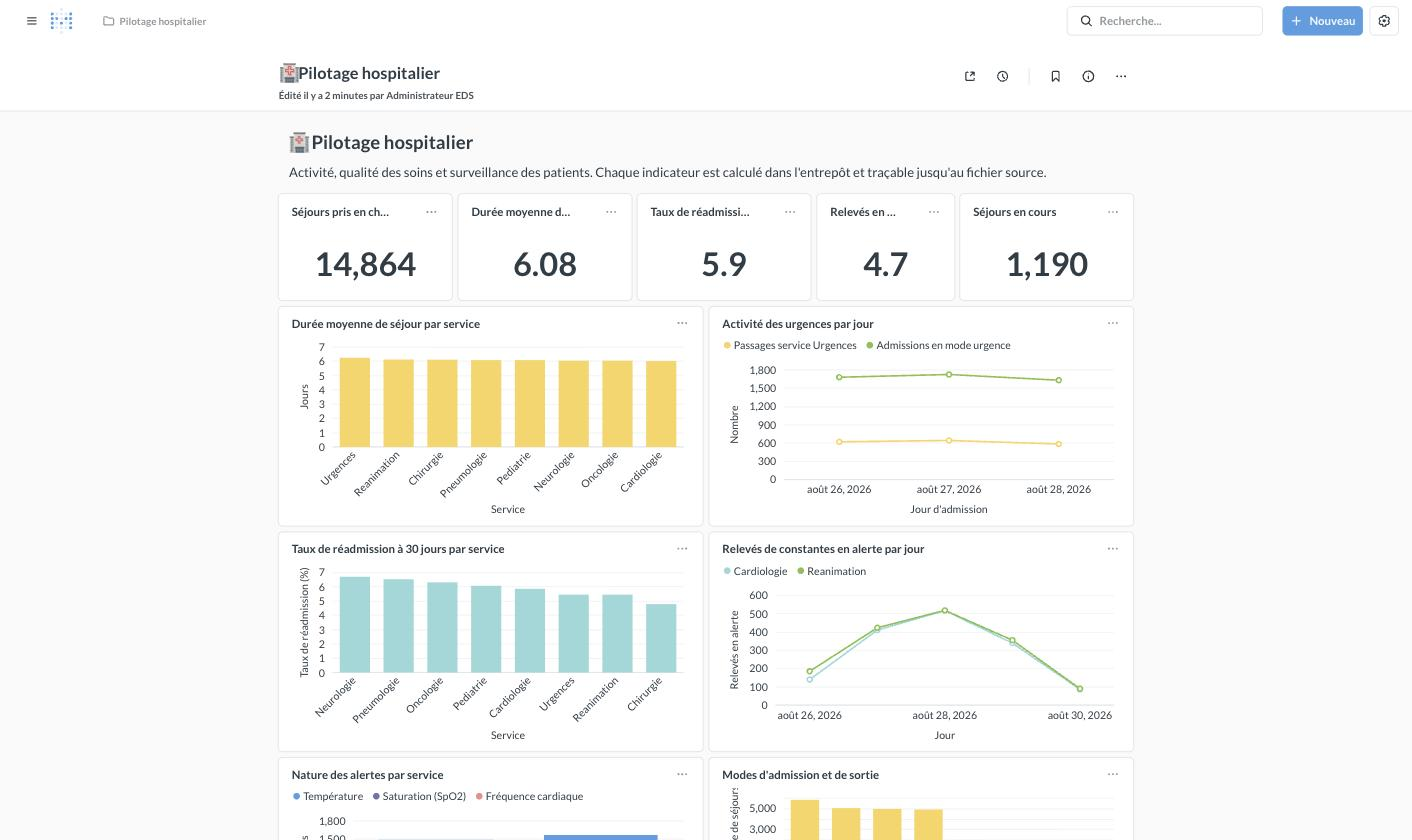
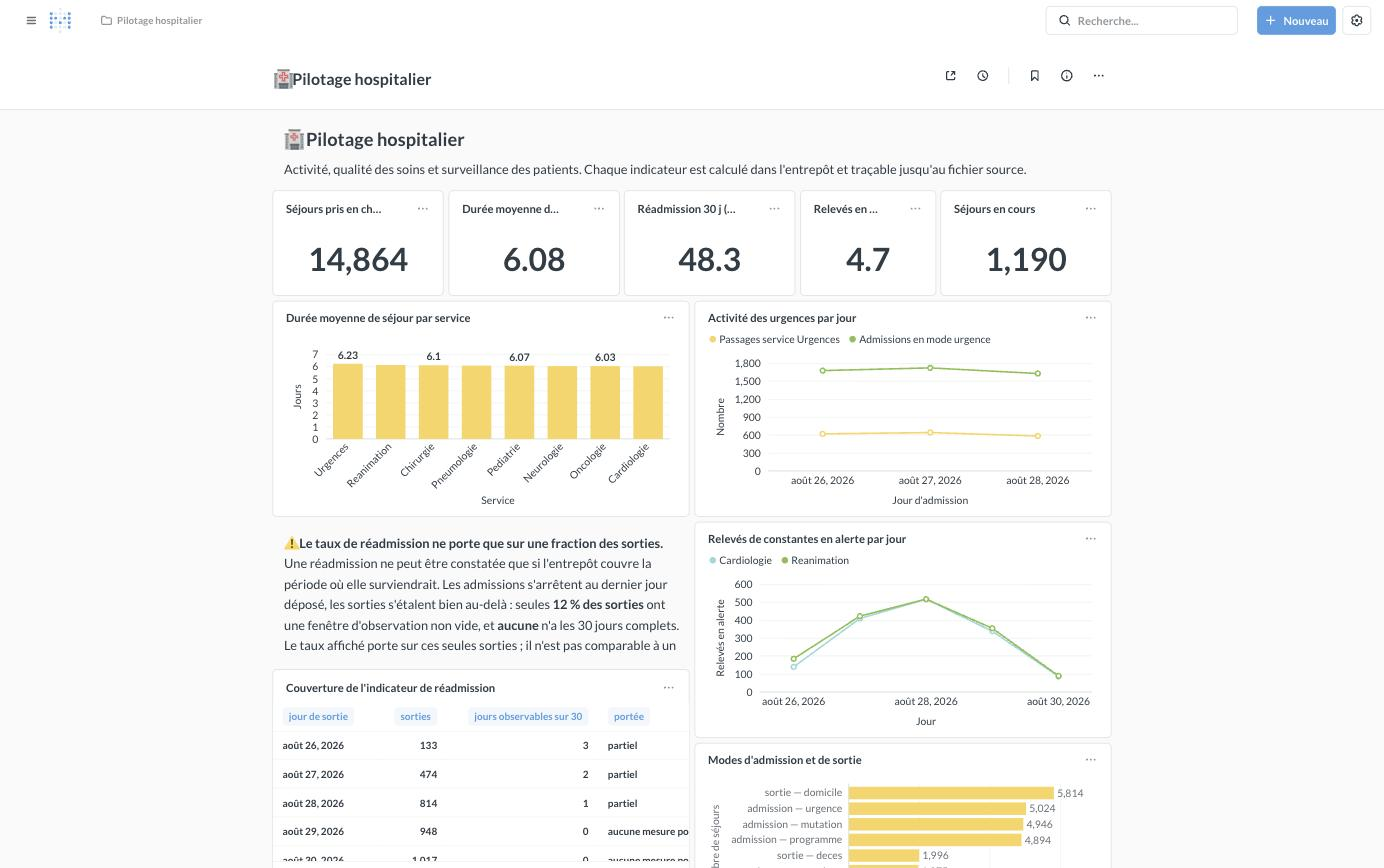
fix(dashboard): captures à jour et graphiques sans regroupement trompeur
Les captures embarquées dans le rapport dataient d'avant deux corrections et le
contredisaient : la pyramide des âges y affichait 27 267 patients alors que le
texte annonce 5 358, et la règle Q5 y valait 3 165 contre 1 975 en base. Les
trois captures sont refaites sur l'état courant.

Metabase regroupait par ailleurs les catégories excédentaires d'un graphique en
barres sous « Autre » : deux pathologies sur dix disparaissaient dans un agrégat
plus gros que toutes les autres barres. Le réglage n'étant pas honoré par l'API,
le graphique passe à une série unique — la part de femmes par pathologie, plus
lisible que deux séries d'effectifs quasi identiques.

Les deux contrôles de k-anonymat portaient enfin le même libellé dans la table
qualité, ce qui donnait l'impression d'un doublon : ils sont désormais distingués
par leur motif (seuil au grain fin, suppression complémentaire sur les marges).

Claude-Session: https://claude.ai/code/session_0145R44frZ8pv2YnrzC7i3HS

diff --git a/src/eds/metabase_content.py b/src/eds/metabase_content.py
@@ -156,7 +156,7 @@ _PILOTAGE_CARDS = [
             "graph.x_axis.title_text": "Service",
             "graph.y_axis.title_text": "Taux de réadmission (%)",
         },
-        "row": 19,
+        "row": 21,
         "col": 0,
         "size_x": 12,
         "size_y": 6,
@@ -175,7 +175,7 @@ _PILOTAGE_CARDS = [
         "row": 11,
         "col": 0,
         "size_x": 12,
-        "size_y": 2,
+        "size_y": 4,
     },
     {
         "name": "Couverture de l'indicateur de réadmission",
@@ -191,7 +191,7 @@ _PILOTAGE_CARDS = [
             "GROUP BY `jour de sortie`\n"
             "ORDER BY `jour de sortie`"
         ),
-        "row": 13,
+        "row": 15,
         "col": 0,
         "size_x": 12,
         "size_y": 6,
@@ -258,6 +258,8 @@ _PILOTAGE_CARDS = [
         "visualization_settings": {
             "graph.dimensions": ["flux"],
             "graph.metrics": ["nb_sejours"],
+            "graph.max_categories_enabled": False,
+            "graph.max_categories": 20,
             "graph.show_values": True,
             "graph.x_axis.title_text": "Nombre de séjours",
             "graph.y_axis.title_text": "Flux",
@@ -365,6 +367,8 @@ _RECHERCHE_CARDS = [
         "visualization_settings": {
             "graph.dimensions": ["pathologie"],
             "graph.metrics": ["nb_patients"],
+            "graph.max_categories_enabled": False,
+            "graph.max_categories": 20,
             "graph.show_values": True,
             "graph.x_axis.title_text": "Patients",
             "graph.y_axis.title_text": "Pathologie (CIM-10)",
@@ -386,6 +390,8 @@ _RECHERCHE_CARDS = [
         "visualization_settings": {
             "graph.dimensions": ["pathologie"],
             "graph.metrics": ["prévalence (%)"],
+            "graph.max_categories_enabled": False,
+            "graph.max_categories": 20,
             "graph.show_values": True,
             "graph.x_axis.title_text": "Prévalence (%)",
             "graph.y_axis.title_text": "Pathologie (CIM-10)",
@@ -425,22 +431,29 @@ _RECHERCHE_CARDS = [
         "size_y": 7,
     },
     {
-        "name": "Répartition par sexe et pathologie",
-        "description": "Composition des cohortes par sexe.",
+        "name": "Part des femmes par pathologie",
+        "description": (
+            "Composition des cohortes par sexe, exprimée en part de femmes. "
+            "Une série unique : Metabase regrouperait les catégories excédentaires "
+            "sous « Autre » au-delà de huit séries, ce qui masquerait deux pathologies."
+        ),
         "display": "row",
+        # Le ratio est plus lisible que deux séries d'effectifs quasi identiques :
+        # toutes les cohortes comptent environ 2 700 patients, les barres absolues
+        # ne se distinguaient pas les unes des autres.
         "sql": (
             "SELECT libelle AS pathologie,\n"
-            "       sumIf(nb_patients, sexe = 'F') AS Femmes,\n"
-            "       sumIf(nb_patients, sexe = 'M') AS Hommes\n"
+            "       round(100.0 * sumIf(nb_patients, sexe = 'F')\n"
+            "             / sum(nb_patients), 1) AS `part de femmes (%)`\n"
             "FROM cohorte_demographie\n"
             "GROUP BY pathologie\n"
-            "ORDER BY pathologie"
+            "ORDER BY `part de femmes (%)` DESC"
         ),
         "visualization_settings": {
             "graph.dimensions": ["pathologie"],
-            "graph.metrics": ["Femmes", "Hommes"],
-            "stackable.stack_type": "stacked",
-            "graph.x_axis.title_text": "Patients",
+            "graph.metrics": ["part de femmes (%)"],
+            "graph.show_values": True,
+            "graph.x_axis.title_text": "Part de femmes (%)",
             "graph.y_axis.title_text": "Pathologie",
         },
         "row": 11,
